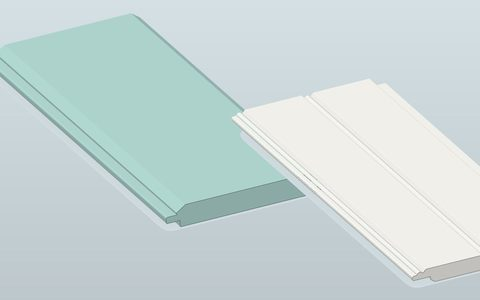
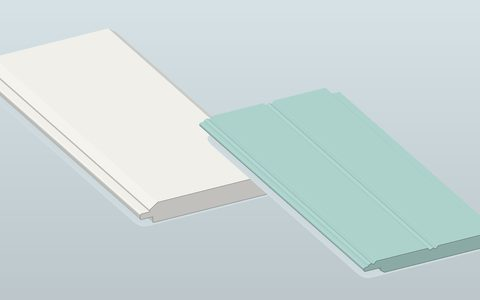
Porch ceiling pair images: E&CB Beadboard in porch ceiling blue, WP4 Shiplap Nickelgap in white

diff --git a/pages/porch-ceiling.html b/pages/porch-ceiling.html
@@ -18,16 +18,16 @@
     <meta property="og:url" content="https://americanprobp.com/pages/porch-ceiling.html" />
     <meta property="og:title" content="Porch Ceiling Boards | Shiplap Nickelgap &amp; Beadboard | American Pro" />
     <meta property="og:description" content="Porch ceiling boards by American Pro: WP4 Shiplap Nickelgap and ECB6PVC 6 inch E&amp;CB Beadboard with the matching ECB Cap, in white or a soft porch ceiling blue. Standard 16 ft lengths, custom lengths available. Free samples." />
-    <meta property="og:image" content="https://americanprobp.com/images/porch_ceiling/porch-ceiling-hero.jpg" />
+    <meta property="og:image" content="https://americanprobp.com/images/porch_ceiling/porch-ceiling-hero.jpg?v=2" />
     <meta property="og:image:width" content="2000" />
     <meta property="og:image:height" content="1100" />
-    <meta property="og:image:alt" content="American Pro Shiplap Nickelgap board in soft porch ceiling blue beside a white 6 inch E&amp;CB Beadboard panel" />
+    <meta property="og:image:alt" content="American Pro Shiplap Nickelgap board in white beside a 6 inch E&amp;CB Beadboard panel in soft porch ceiling blue" />
     <meta property="og:locale" content="en_US" />
     <meta name="twitter:card" content="summary_large_image" />
     <meta name="twitter:title" content="Porch Ceiling Boards | Shiplap Nickelgap &amp; Beadboard | American Pro" />
     <meta name="twitter:description" content="Porch ceiling boards by American Pro: WP4 Shiplap Nickelgap and ECB6PVC 6 inch E&amp;CB Beadboard with the matching ECB Cap, in white or a soft porch ceiling blue. Standard 16 ft lengths, custom lengths available. Free samples." />
-    <meta name="twitter:image" content="https://americanprobp.com/images/porch_ceiling/porch-ceiling-hero.jpg" />
-    <meta name="twitter:image:alt" content="American Pro Shiplap Nickelgap board in soft porch ceiling blue beside a white 6 inch E&amp;CB Beadboard panel" />
+    <meta name="twitter:image" content="https://americanprobp.com/images/porch_ceiling/porch-ceiling-hero.jpg?v=2" />
+    <meta name="twitter:image:alt" content="American Pro Shiplap Nickelgap board in white beside a 6 inch E&amp;CB Beadboard panel in soft porch ceiling blue" />
 
     <!-- Favicons -->
     <link rel="icon" type="image/svg+xml" href="../images/favicon.svg?v=2" />
@@ -36,7 +36,7 @@
     <link rel="manifest" href="../site.webmanifest" />
     <script type="application/ld+json">{"@context":"https://schema.org","@type":"Organization","@id":"https://americanprobp.com/#organization","name":"American Pro Building Products","alternateName":"American Pro","url":"https://americanprobp.com/","logo":"https://americanprobp.com/images/logo/americanpro-header.png","image":"https://americanprobp.com/images/og/og-default.jpg","description":"American-made cellular PVC decking, porch flooring, and architectural mouldings, manufactured by Patwin Plastics in Linden, NJ since 1971.","telephone":"+1-877-442-6776","email":"sales@americanprobp.com","foundingDate":"2001","parentOrganization":{"@type":"Organization","@id":"https://americanprobp.com/#patwin","name":"Patwin Plastics, Inc.","foundingDate":"1971","url":"https://americanprobp.com/pages/about.html"},"address":{"@type":"PostalAddress","streetAddress":"2300 E Linden Avenue","addressLocality":"Linden","addressRegion":"NJ","postalCode":"07036","addressCountry":"US"},"sameAs":["https://truegraindeck.com"],"areaServed":{"@type":"Country","name":"United States"}}</script>
     <script type="application/ld+json">{"@context":"https://schema.org","@type":"BreadcrumbList","itemListElement":[{"@type":"ListItem","position":1,"name":"Home","item":"https://americanprobp.com/"},{"@type":"ListItem","position":2,"name":"Mouldings","item":"https://americanprobp.com/pages/mouldings.html"},{"@type":"ListItem","position":3,"name":"Porch Ceilings","item":"https://americanprobp.com/pages/porch-ceiling.html"}]}</script>
-    <script type="application/ld+json">{"@context":"https://schema.org","@type":"ProductGroup","name":"American Pro Porch Ceiling Boards","description":"Porch ceiling boards by American Pro: WP4 Shiplap Nickelgap and ECB6PVC 6 inch E&CB Beadboard with the matching ECB Cap, in white or a soft porch ceiling blue. Standard 16 ft lengths, custom lengths available. Free samples.","url":"https://americanprobp.com/pages/porch-ceiling.html","image":"https://americanprobp.com/images/porch_ceiling/porch-ceiling-hero.jpg","brand":{"@type":"Brand","name":"American Pro Building Products"},"manufacturer":{"@id":"https://americanprobp.com/#patwin"},"material":"Cellular PVC","countryOfOrigin":"US","hasVariant":[{"@type":"Product","name":"Shiplap Nickelgap","sku":"WP4","category":"Beadboard & Balusters","material":"Cellular PVC","image":"https://americanprobp.com/images/porch_ceiling/wp4-shiplap-nickelgap-white.jpg","url":"https://americanprobp.com/pages/porch-ceiling.html#wp4","brand":{"@type":"Brand","name":"American Pro Building Products"},"additionalProperty":{"@type":"PropertyValue","name":"Thickness x width","value":"3/4\" x 5-1/2\""}},{"@type":"Product","name":"6\" E&CB Beadboard","sku":"ECB6PVC","category":"Beadboard & Balusters","material":"Cellular PVC","image":"https://americanprobp.com/images/porch_ceiling/ecb6-beadboard-white.jpg","url":"https://americanprobp.com/pages/porch-ceiling.html#ecb6pvc","brand":{"@type":"Brand","name":"American Pro Building Products"},"additionalProperty":{"@type":"PropertyValue","name":"Thickness x width","value":"1/2\" x 5-1/2\""}},{"@type":"Product","name":"ECB Cap","sku":"ECBCAPPVC","category":"Beadboard & Balusters","material":"Cellular PVC","image":"https://americanprobp.com/images/mouldings_profiles/bead_cap.jpg","url":"https://americanprobp.com/pages/porch-ceiling.html#ecbcappvc","brand":{"@type":"Brand","name":"American Pro Building Products"},"additionalProperty":{"@type":"PropertyValue","name":"Thickness x width","value":"3/4\" x 1-3/4\""}}]}</script>
+    <script type="application/ld+json">{"@context":"https://schema.org","@type":"ProductGroup","name":"American Pro Porch Ceiling Boards","description":"Porch ceiling boards by American Pro: WP4 Shiplap Nickelgap and ECB6PVC 6 inch E&CB Beadboard with the matching ECB Cap, in white or a soft porch ceiling blue. Standard 16 ft lengths, custom lengths available. Free samples.","url":"https://americanprobp.com/pages/porch-ceiling.html","image":"https://americanprobp.com/images/porch_ceiling/porch-ceiling-hero.jpg?v=2","brand":{"@type":"Brand","name":"American Pro Building Products"},"manufacturer":{"@id":"https://americanprobp.com/#patwin"},"material":"Cellular PVC","countryOfOrigin":"US","hasVariant":[{"@type":"Product","name":"Shiplap Nickelgap","sku":"WP4","category":"Beadboard & Balusters","material":"Cellular PVC","image":"https://americanprobp.com/images/porch_ceiling/wp4-shiplap-nickelgap-white.jpg","url":"https://americanprobp.com/pages/porch-ceiling.html#wp4","brand":{"@type":"Brand","name":"American Pro Building Products"},"additionalProperty":{"@type":"PropertyValue","name":"Thickness x width","value":"3/4\" x 5-1/2\""}},{"@type":"Product","name":"6\" E&CB Beadboard","sku":"ECB6PVC","category":"Beadboard & Balusters","material":"Cellular PVC","image":"https://americanprobp.com/images/porch_ceiling/ecb6-beadboard-white.jpg","url":"https://americanprobp.com/pages/porch-ceiling.html#ecb6pvc","brand":{"@type":"Brand","name":"American Pro Building Products"},"additionalProperty":{"@type":"PropertyValue","name":"Thickness x width","value":"1/2\" x 5-1/2\""}},{"@type":"Product","name":"ECB Cap","sku":"ECBCAPPVC","category":"Beadboard & Balusters","material":"Cellular PVC","image":"https://americanprobp.com/images/mouldings_profiles/bead_cap.jpg","url":"https://americanprobp.com/pages/porch-ceiling.html#ecbcappvc","brand":{"@type":"Brand","name":"American Pro Building Products"},"additionalProperty":{"@type":"PropertyValue","name":"Thickness x width","value":"3/4\" x 1-3/4\""}}]}</script>
     <script type="application/ld+json">{"@context":"https://schema.org","@type":"FAQPage","mainEntity":[{"@type":"Question","name":"Which porch ceiling profiles does American Pro offer?","acceptedAnswer":{"@type":"Answer","text":"Two: WP4 Shiplap Nickelgap at 3/4\" x 5-1/2\", and ECB6PVC 6\" E&CB Beadboard at 1/2\" x 5-1/2\". The ECB Cap, ECBCAPPVC, at 3/4\" x 1-3/4\", is the matching finishing piece."}},{"@type":"Question","name":"What lengths are available?","acceptedAnswer":{"@type":"Answer","text":"The standard length is 16 ft, and any custom length is available. Tell us about your porch and we will help you plan the order."}},{"@type":"Question","name":"What colors can I choose?","acceptedAnswer":{"@type":"Answer","text":"White, and a soft, classic porch ceiling blue in the pale aqua tone often called haint blue."}},{"@type":"Question","name":"How do the boards fit together?","acceptedAnswer":{"@type":"Answer","text":"The Shiplap Nickelgap board has a tongue on one side and a groove on the other. The 6\" E&CB Beadboard is an interlocking beadboard panel."}},{"@type":"Question","name":"Can I see a sample first?","acceptedAnswer":{"@type":"Answer","text":"Yes. Use the sample form on this page to request samples of the profiles and colors you are considering, or call us at 1-877-442-6776, Mon to Fri, 8 AM to 4 PM ET."}}]}</script>
     <link rel="preconnect" href="https://api.fontshare.com" />
     <link rel="preconnect" href="https://cdn.fontshare.com" crossorigin />
@@ -186,8 +186,8 @@
 
       <section class="moul-hero" id="top">
         <picture>
-          <source srcset="../images/porch_ceiling/porch-ceiling-hero.webp" type="image/webp" />
-          <img fetchpriority="high" width="2000" height="1100" decoding="async" src="../images/porch_ceiling/porch-ceiling-hero.jpg" alt="American Pro Shiplap Nickelgap board in soft porch ceiling blue beside a white 6 inch E&amp;CB Beadboard panel" />
+          <source srcset="../images/porch_ceiling/porch-ceiling-hero.webp?v=2" type="image/webp" />
+          <img fetchpriority="high" width="2000" height="1100" decoding="async" src="../images/porch_ceiling/porch-ceiling-hero.jpg?v=2" alt="American Pro Shiplap Nickelgap board in white beside a 6 inch E&amp;CB Beadboard panel in soft porch ceiling blue" />
         </picture>
         <div class="container moul-hero-inner">
           <span class="hero-eyebrow">Porch Ceilings</span>
@@ -242,8 +242,8 @@
           <div style="display: grid; gap: clamp(var(--space-12), 8vw, var(--space-20));">
             <div class="feature-row" data-reveal id="wp4">
               <picture>
-                <source srcset="../images/porch_ceiling/wp4-shiplap-nickelgap-haint-blue.webp" type="image/webp" />
-                <img width="1400" height="875" loading="lazy" decoding="async" src="../images/porch_ceiling/wp4-shiplap-nickelgap-haint-blue.jpg" alt="American Pro WP4 Shiplap Nickelgap porch ceiling board in soft porch ceiling blue, showing the tongue on one edge and the groove on the other" />
+                <source srcset="../images/porch_ceiling/wp4-shiplap-nickelgap-white.webp" type="image/webp" />
+                <img width="1400" height="875" loading="lazy" decoding="async" src="../images/porch_ceiling/wp4-shiplap-nickelgap-white.jpg" alt="American Pro WP4 Shiplap Nickelgap porch ceiling board in white, showing the tongue on one edge and the groove on the other" />
               </picture>
               <div>
                 <span class="eyebrow">Part WP4</span>
@@ -287,8 +287,8 @@
                 </ul>
               </div>
               <picture>
-                <source srcset="../images/porch_ceiling/ecb6-beadboard-white.webp" type="image/webp" />
-                <img width="1400" height="875" loading="lazy" decoding="async" src="../images/porch_ceiling/ecb6-beadboard-white.jpg" alt="American Pro 6 inch E&amp;CB Beadboard panel ECB6PVC in white, showing its bead detail and interlocking edges" />
+                <source srcset="../images/porch_ceiling/ecb6-beadboard-haint-blue.webp" type="image/webp" />
+                <img width="1400" height="875" loading="lazy" decoding="async" src="../images/porch_ceiling/ecb6-beadboard-haint-blue.jpg" alt="American Pro 6 inch E&amp;CB Beadboard panel ECB6PVC in soft porch ceiling blue, showing its bead detail and interlocking edges" />
               </picture>
             </div>
 

diff --git a/index.html b/index.html
@@ -224,7 +224,7 @@
                     </span>
                   </a>
                   <a class="mega-card" href="./pages/porch-ceiling.html" data-product-link>
-                    <span class="mega-card__media"><img src="./images/porch_ceiling/porch-ceiling-mega.jpg" alt="" loading="lazy" decoding="async" /></span>
+                    <span class="mega-card__media"><img src="./images/porch_ceiling/porch-ceiling-mega.jpg?v=2" alt="" loading="lazy" decoding="async" /></span>
                     <span class="mega-card__body">
                       <span class="mega-card__name">Porch Ceilings</span>
                       <span class="mega-card__tag">Shiplap Nickelgap and beadboard in white or porch ceiling blue.</span>
@@ -421,7 +421,7 @@
           <a class="btn btn--primary house-card__cta" href="./pages/mouldings.html">Explore Mouldings</a>
         </template>
         <template id="house-tpl-ceiling">
-          <img class="house-card__media" src="./images/house_hero/card-ceiling.webp" width="480" height="300" alt="American Pro Shiplap Nickelgap board in porch ceiling blue beside a white E&amp;CB Beadboard panel" loading="lazy" decoding="async" />
+          <img class="house-card__media" src="./images/house_hero/card-ceiling.webp?v=2" width="480" height="300" alt="American Pro Shiplap Nickelgap board in white beside an E&amp;CB Beadboard panel in porch ceiling blue" loading="lazy" decoding="async" />
           <span class="house-card__eyebrow">The Porch Ceiling</span>
           <h2 class="house-card__title" id="house-card-title">Porch Ceilings</h2>
           <p class="house-card__text">Shiplap Nickelgap and 6" E&amp;CB Beadboard in white or a soft porch ceiling blue. Standard 16 ft lengths, with custom lengths available.</p>

diff --git a/pages/mouldings.html b/pages/mouldings.html
@@ -449,7 +449,7 @@
           <div data-reveal style="display:grid;gap:var(--space-8);align-items:center;background:var(--color-surface-2);border-radius:var(--radius-lg);padding:clamp(1.5rem,3vw,2.5rem);grid-template-columns:repeat(auto-fit,minmax(280px,1fr));">
             <picture>
               <source srcset="../images/porch_ceiling/porch-ceiling-hero.webp" type="image/webp" />
-              <img src="../images/porch_ceiling/porch-ceiling-hero.jpg" width="2000" height="1100" loading="lazy" decoding="async" alt="American Pro Shiplap Nickelgap board in soft porch ceiling blue beside a white 6 inch E&amp;CB Beadboard panel" style="width:100%;height:auto;border-radius:var(--radius-md);" />
+              <img src="../images/porch_ceiling/porch-ceiling-hero.jpg" width="2000" height="1100" loading="lazy" decoding="async" alt="American Pro Shiplap Nickelgap board in white beside a 6 inch E&amp;CB Beadboard panel in soft porch ceiling blue" style="width:100%;height:auto;border-radius:var(--radius-md);" />
             </picture>
             <div>
               <span class="eyebrow">Porch Ceilings</span>

diff --git a/pages/_partials.js b/pages/_partials.js
@@ -70,7 +70,7 @@
       name: 'Porch Ceilings',
       tagline: 'Shiplap Nickelgap and beadboard in white or porch ceiling blue.',
       href: B + 'pages/porch-ceiling.html',
-      img: B + 'images/porch_ceiling/porch-ceiling-mega.jpg',
+      img: B + 'images/porch_ceiling/porch-ceiling-mega.jpg?v=2',
       alt: 'Shiplap Nickelgap and beadboard porch ceiling boards',
     },
   ];
